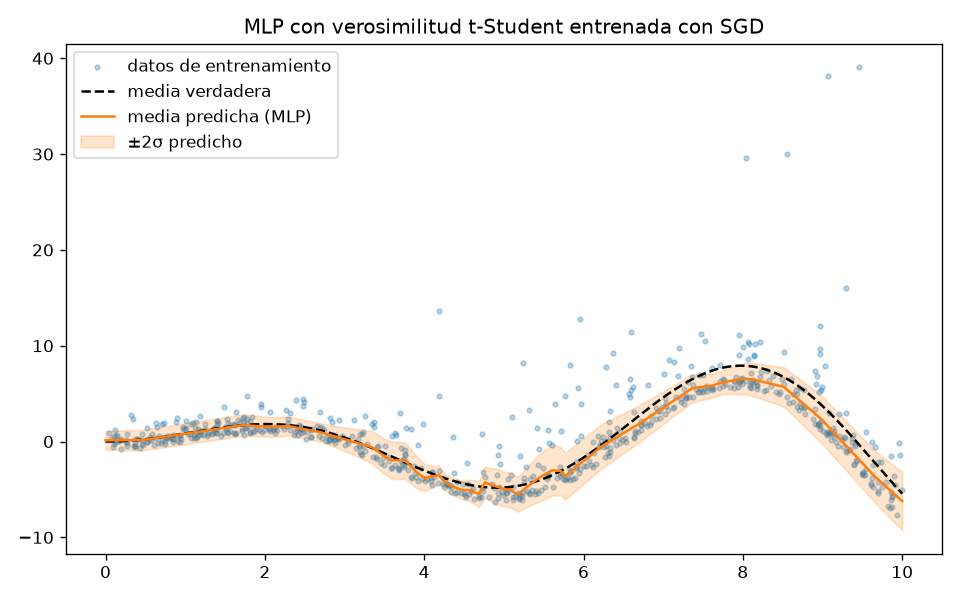
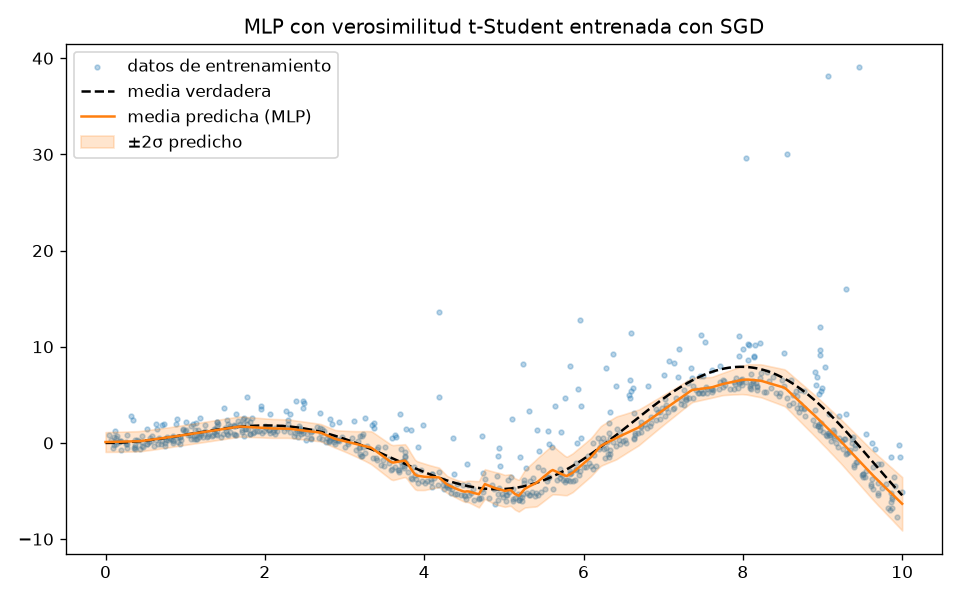
bayesian neural

diff --git a/examples/bayesian_neural_net.py b/examples/bayesian_neural_net.py
@@ -4,14 +4,20 @@ import matplotlib.pyplot as plt
 import jax
 # NUTS (littlemcmc) corre en numpy/float64: igualamos la precisión de JAX para
 # que el logp y su gradiente sean estables en el muestreador.
-jax.config.update("jax_enable_x64", True)
+#jax.config.update("jax_enable_x64", True)
 import jax.numpy as jnp
 from jax import jit, vmap, value_and_grad
 from jax.tree_util import tree_map
 from jax.flatten_util import ravel_pytree
-from jax.scipy.special import gammaln
+
+import distrax
+# distrax no trae una t-Student nativa, así que envolvemos la de TFP sobre el
+# sustrato JAX (trazable por vmap+jit y compatible con float64).
+from tensorflow_probability.substrates import jax as tfp
+tfd = tfp.distributions
 
 from littlemcmc.nuts_jax import sample_vmapped_nuts_chains
+from littlemcmc.hmc_jax import sample_vmapped_chains
 
 RANDOM_STATE = 42   # semilla única para todo el laboratorio (reproducibilidad)
 
@@ -87,18 +93,20 @@ def train(loss_fn, params, X, y, n_epochs=4000, lr=1e-2, log_every=1000):
     return params, history
 
 
+def tstudent_dist(mu, sigma, nu):
+    '''Distribución t-Student (location-scale) de distrax (envuelve TFP).'''
+    return distrax.as_distribution(tfd.StudentT(df=nu, loc=mu, scale=sigma))
+
+
 def tstudent_loss(params, x, y):
     '''NLL de una t de Student (location-scale) con cabeza heterocedástica.'''
     out = mlp_forward(params, x)               # (N, 3): mu, log(sigma^2), nu_raw
     mu = out[:, 0]
     log_var = jnp.clip(out[:, 1], -7.0, 7.0)   # estabilidad numérica
     nu = 2.0 + jax.nn.softplus(out[:, 2])      # grados de libertad nu > 2 (varianza finita)
-    z = (y - mu) / jnp.exp(0.5 * log_var)
+    sigma = jnp.exp(0.5 * log_var)
     # NLL de la t de Student: colas más pesadas -> robusta a outliers
-    nll = (gammaln(nu / 2.0) - gammaln((nu + 1.0) / 2.0)
-           + 0.5 * jnp.log(nu * jnp.pi) + 0.5 * log_var
-           + 0.5 * (nu + 1.0) * jnp.log1p(z ** 2 / nu))
-    return jnp.mean(nll)
+    return -jnp.mean(tstudent_dist(mu, sigma, nu).log_prob(y))
 
 
 def predict_params(params, x):
@@ -110,13 +118,40 @@ def predict_params(params, x):
     return mu, sigma, nu
 
 
+def mlp_features(body_params, x):
+    '''Extractor de características: todas las capas menos la última, con ReLU.
+
+    Devuelve phi(x), las activaciones que alimentan la capa lineal final. En el
+    esquema bayesiano de última capa, este cuerpo queda congelado en su valor MAP.
+    '''
+    for W, b in body_params:
+        x = jax.nn.relu(x @ W + b)
+    return x
+
+
+def predict_params_last(W_last, b_last, phi):
+    '''(mu, sigma, nu) a partir de la última capa lineal sobre características phi.'''
+    out = phi @ W_last + b_last
+    mu = out[:, 0]
+    sigma = jnp.exp(0.5 * jnp.clip(out[:, 1], -7.0, 7.0))
+    nu = 2.0 + jax.nn.softplus(out[:, 2])
+    return mu, sigma, nu
+
+
 def tstudent_logpdf(y, mu, sigma, nu):
-    '''log-densidad t-Student (location-scale) por punto.'''
-    log_var = 2.0 * jnp.log(sigma)
-    z = (y - mu) / sigma
-    return -(gammaln(nu / 2.0) - gammaln((nu + 1.0) / 2.0)
-             + 0.5 * jnp.log(nu * jnp.pi) + 0.5 * log_var
-             + 0.5 * (nu + 1.0) * jnp.log1p(z ** 2 / nu))
+    '''log-densidad t-Student (location-scale) por punto (vía distrax).'''
+    return tstudent_dist(mu, sigma, nu).log_prob(y)
+
+
+def tstudent_rvs(key, mu, sigma, nu, sample_shape=()):
+    '''Muestras t-Student (location-scale) en float32, vía ``jax.random.t``.
+
+    El muestreador de la t de TFP/distrax cae internamente a un gamma que castea
+    a float64 (avisos de truncado con x64 desactivado); ``jax.random.t`` respeta
+    el dtype de entrada, así que muestreamos a mano en float32.
+    '''
+    t = jax.random.t(key, nu, shape=tuple(sample_shape) + mu.shape)
+    return mu + sigma * t
 
 
 # ---------------------------------------------------------------------------
@@ -139,15 +174,15 @@ print(f"Prueba:        {X_test.shape[0]} muestras")
 
 x_mean, x_sd = X_train.mean(), X_train.std()
 y_mean, y_sd = y_train.mean(), y_train.std()
-# Tensores JAX estandarizados para el entrenamiento
-Xtr = jnp.asarray(standardize_X(X_train))
-ytr = jnp.asarray((y_train - y_mean) / y_sd)
-Xte = jnp.asarray(standardize_X(X_test))
-yte = jnp.asarray((y_test - y_mean) / y_sd)
+# Tensores JAX estandarizados para el entrenamiento (float32: x64 está desactivado)
+Xtr = jnp.asarray(standardize_X(X_train), dtype=jnp.float32)
+ytr = jnp.asarray((y_train - y_mean) / y_sd, dtype=jnp.float32)
+Xte = jnp.asarray(standardize_X(X_test), dtype=jnp.float32)
+yte = jnp.asarray((y_test - y_mean) / y_sd, dtype=jnp.float32)
 
 # Malla ordenada para graficar las curvas suaves
 xx = np.linspace(0.0, 10.0, 400).reshape(-1, 1)
-Xgrid = jnp.asarray(standardize_X(xx))
+Xgrid = jnp.asarray(standardize_X(xx), dtype=jnp.float32)
 
 
 # ---------------------------------------------------------------------------
@@ -234,6 +269,71 @@ n_div = int(np.sum(stats["diverging"]))
 print(f"  muestras posteriores: {samples.shape[0]}  |  divergencias: {n_div}")
 
 
+print(f"\nMuestreando el posterior con HMC-JAX vmapped ({model_ndim} parámetros)...")
+trace_hmc, stats_hmc = sample_vmapped_chains(
+    logp_dlogp_func,
+    model_ndim=model_ndim,
+    draws=400,
+    tune=400,
+    chains=2,
+    n_leapfrog=16,
+    start=flat0,   # (model_ndim,) se difunde a todas las cadenas
+    random_seed=RANDOM_STATE,
+)
+samples_hmc = jnp.asarray(trace_hmc.reshape(-1, model_ndim))   # (n_muestras, ndim)
+n_div_hmc = int(np.sum(stats_hmc["diverging"]))
+print(f"  muestras posteriores: {samples_hmc.shape[0]}  |  divergencias: {n_div_hmc}")
+
+
+# ---------------------------------------------------------------------------
+# Bayesiano de última capa (HMC-JAX): congelamos el cuerpo MAP (todas las capas
+# menos la última) como extractor de características fijo y muestreamos SOLO la
+# última capa lineal. Es mucho más barato (195 vs 4419 parámetros) y captura la
+# mayor parte de la incertidumbre predictiva (last-layer Laplace/Bayes).
+#     log p(W_L, b_L | datos) = sum_i log t(y_i | head(phi(x_i); W_L, b_L)) - 0.5||·||^2
+# con phi(x) = cuerpo MAP congelado.
+# ---------------------------------------------------------------------------
+body_params = params_small[:-1]          # capas congeladas (valor MAP)
+last_params = params_small[-1]           # (W_L, b_L): lo único que se muestrea
+flat0_last, unflatten_last = ravel_pytree(last_params)
+model_ndim_last = int(flat0_last.size)
+
+# Características de entrenamiento, congeladas (sin gradiente hacia el cuerpo).
+phi_tr = jax.lax.stop_gradient(mlp_features(body_params, Xtr))
+
+
+def log_posterior_last(flat):
+    '''log-posterior no normalizado sobre la última capa (cuerpo congelado).'''
+    W_last, b_last = unflatten_last(flat)
+    mu, sigma, nu = predict_params_last(W_last, b_last, phi_tr)
+    loglik = jnp.sum(tstudent_logpdf(ytr, mu, sigma, nu))
+    logprior = -0.5 * jnp.sum(flat ** 2) / (PRIOR_SD ** 2)
+    return loglik + logprior
+
+
+logp_dlogp_last = value_and_grad(log_posterior_last)
+
+print(f"\nMuestreando SOLO la última capa con HMC-JAX vmapped "
+      f"({model_ndim_last} de {model_ndim} parámetros)...")
+trace_ll, stats_ll = sample_vmapped_chains(
+    logp_dlogp_last,
+    model_ndim=model_ndim_last,
+    draws=400,
+    tune=400,
+    chains=2,
+    n_leapfrog=16,
+    start=flat0_last,   # (model_ndim_last,) se difunde a todas las cadenas
+    random_seed=RANDOM_STATE,
+)
+samples_ll = jnp.asarray(trace_ll.reshape(-1, model_ndim_last))
+n_div_ll = int(np.sum(stats_ll["diverging"]))
+print(f"  muestras posteriores: {samples_ll.shape[0]}  |  divergencias: {n_div_ll}")
+
+# Características congeladas en malla y prueba (reutilizadas por las métricas/plot).
+phi_grid = jax.lax.stop_gradient(mlp_features(body_params, Xgrid))
+phi_te = jax.lax.stop_gradient(mlp_features(body_params, Xte))
+
+
 # --- Predicción posterior (posterior predictive) sobre la malla -------------
 def grid_mu(flat):
     mu, _, _ = predict_params(unflatten(flat), Xgrid)
@@ -245,6 +345,19 @@ bayes_mean_grid = np.asarray(jnp.mean(post_mu_grid, axis=0))
 bayes_lo_grid = np.asarray(jnp.percentile(post_mu_grid, 2.5, axis=0))
 bayes_hi_grid = np.asarray(jnp.percentile(post_mu_grid, 97.5, axis=0))
 
+post_mu_grid_hmc = vmap(grid_mu)(samples_hmc) * y_sd + y_mean
+hmc_mean_grid = np.asarray(jnp.mean(post_mu_grid_hmc, axis=0))
+
+
+def grid_mu_last(flat):
+    W_last, b_last = unflatten_last(flat)
+    mu, _, _ = predict_params_last(W_last, b_last, phi_grid)
+    return mu
+
+
+post_mu_grid_ll = vmap(grid_mu_last)(samples_ll) * y_sd + y_mean
+ll_mean_grid = np.asarray(jnp.mean(post_mu_grid_ll, axis=0))
+
 
 # ---------------------------------------------------------------------------
 # Comparación cuantitativa en el conjunto de prueba
@@ -253,36 +366,124 @@ def rmse(pred_real):
     return float(np.sqrt(np.mean((np.asarray(pred_real) - y_test) ** 2)))
 
 
+def coverage95(pred_real):
+    '''Cobertura empírica del IC predictivo central del 95% (ideal: 0.95).'''
+    qlo = jnp.percentile(pred_real, 2.5, axis=0)
+    qhi = jnp.percentile(pred_real, 97.5, axis=0)
+    return float(jnp.mean((yte_real >= qlo) & (yte_real <= qhi)))
+
+
+def crps(pred_real):
+    '''CRPS medio estimado de muestras predictivas (estimador ordenado, O(M log M)).
+
+    CRPS(F, y) = E|X - y| - 0.5 E|X - X'|, menor es mejor; combina calibración
+    y nitidez de la predictiva en una sola métrica (unidades de y).
+    '''
+    M = pred_real.shape[0]
+    term1 = jnp.mean(jnp.abs(pred_real - yte_real[None, :]), axis=0)
+    xs = jnp.sort(pred_real, axis=0)
+    i = jnp.arange(1, M + 1)[:, None]
+    term2 = jnp.sum((2.0 * i - M - 1.0) * xs, axis=0) / (M ** 2)
+    return float(jnp.mean(term1 - term2))
+
+
+N_PRED = 800   # muestras predictivas por punto para cobertura y CRPS
+yte_real = jnp.asarray(y_test, dtype=jnp.float32)
+key_pred, random_key = jax.random.split(random_key)
+
+
+def det_pred_samples(params, key, n=N_PRED):
+    '''Muestras de la predictiva (t-Student única) de un modelo determinista, unidades reales.'''
+    mu, sigma, nu = predict_params(params, Xte)
+    ys = tstudent_rvs(key, mu, sigma, nu, sample_shape=(n,))                 # (n, N_test)
+    return ys * y_sd + y_mean
+
+
+def bayes_pred_samples(post_samples, key):
+    '''Muestras de la predictiva posterior (una y por muestra posterior y punto), unidades reales.'''
+    keys = jax.random.split(key, post_samples.shape[0])
+
+    def one(flat, k):
+        mu, sigma, nu = predict_params(unflatten(flat), Xte)
+        return tstudent_rvs(k, mu, sigma, nu)
+
+    ys = vmap(one)(post_samples, keys)                                       # (S, N_test)
+    return ys * y_sd + y_mean
+
+
 # (1) MLP determinista grande (SGD, [1,64,64,3]).
 mu_det, sigma_det, nu_det = predict_params(params_tstudent, Xte)
 det_rmse = rmse(np.asarray(mu_det) * y_sd + y_mean)
 det_ll = float(jnp.mean(tstudent_logpdf(yte, mu_det, sigma_det, nu_det)))
+k1, key_pred = jax.random.split(key_pred)
+det_pred = det_pred_samples(params_tstudent, k1)
+det_cov, det_crps = coverage95(det_pred), crps(det_pred)
 
-# (2) MLP determinista pequeño (SGD, [1,8,3]) = la moda del modelo bayesiano.
+# (2) MLP determinista pequeño (SGD/MAP) = la moda del modelo bayesiano.
 mu_map, sigma_map, nu_map = predict_params(params_small, Xte)
 map_rmse = rmse(np.asarray(mu_map) * y_sd + y_mean)
 map_ll = float(jnp.mean(tstudent_logpdf(yte, mu_map, sigma_map, nu_map)))
+k2, key_pred = jax.random.split(key_pred)
+map_pred = det_pred_samples(params_small, k2)
+map_cov, map_crps = coverage95(map_pred), crps(map_pred)
 
 
-# (3) Modelo bayesiano (NUTS): media y verosimilitud predictiva posterior.
+# (3)/(4)/(5) Modelos bayesianos (NUTS, HMC, última capa): media y verosimilitud
+# predictiva posterior. `test_pred_fn` y `pred_samples_fn` desacoplan la red
+# completa del esquema de última capa (cuerpo congelado).
 def test_pred(flat):
     mu, sigma, nu = predict_params(unflatten(flat), Xte)
     return mu, tstudent_logpdf(yte, mu, sigma, nu)
 
 
-post_mu_test, post_lp_test = vmap(test_pred)(samples)        # (S, N_test) cada uno
-bayes_mu_test = jnp.mean(post_mu_test, axis=0) * y_sd + y_mean
-bayes_rmse = rmse(bayes_mu_test)
-# log-verosimilitud predictiva: log( (1/S) sum_s p_s(y) ) promediada sobre puntos
-S = samples.shape[0]
-bayes_ll = float(jnp.mean(jax.scipy.special.logsumexp(post_lp_test, axis=0) - jnp.log(S)))
+def test_pred_last(flat):
+    W_last, b_last = unflatten_last(flat)
+    mu, sigma, nu = predict_params_last(W_last, b_last, phi_te)
+    return mu, tstudent_logpdf(yte, mu, sigma, nu)
+
+
+def lastlayer_pred_samples(post_samples, key):
+    '''Predictiva posterior de última capa (una y por muestra y punto), unidades reales.'''
+    keys = jax.random.split(key, post_samples.shape[0])
+
+    def one(flat, k):
+        W_last, b_last = unflatten_last(flat)
+        mu, sigma, nu = predict_params_last(W_last, b_last, phi_te)
+        return tstudent_rvs(k, mu, sigma, nu)
+
+    ys = vmap(one)(post_samples, keys)                                       # (S, N_test)
+    return ys * y_sd + y_mean
+
+
+def bayes_metrics(post_samples, key, test_pred_fn=test_pred,
+                  pred_samples_fn=bayes_pred_samples):
+    post_mu_test, post_lp_test = vmap(test_pred_fn)(post_samples)   # (S, N_test) cada uno
+    mu_test = jnp.mean(post_mu_test, axis=0) * y_sd + y_mean
+    S = post_samples.shape[0]
+    # log-verosimilitud predictiva: log( (1/S) sum_s p_s(y) ) promediada sobre puntos
+    ll = float(jnp.mean(jax.scipy.special.logsumexp(post_lp_test, axis=0) - jnp.log(S)))
+    pred = pred_samples_fn(post_samples, key)
+    return rmse(mu_test), ll, coverage95(pred), crps(pred)
+
+
+k3, key_pred = jax.random.split(key_pred)
+nuts_rmse, nuts_ll, nuts_cov, nuts_crps = bayes_metrics(samples, k3)
+k4, key_pred = jax.random.split(key_pred)
+hmc_rmse, hmc_ll, hmc_cov, hmc_crps = bayes_metrics(samples_hmc, k4)
+k5, key_pred = jax.random.split(key_pred)
+ll_rmse, ll_ll, ll_cov, ll_crps = bayes_metrics(
+    samples_ll, k5, test_pred_fn=test_pred_last, pred_samples_fn=lastlayer_pred_samples
+)
 
 print("\n=== Comparación en el conjunto de prueba ===")
-print(f"{'Modelo':<34}{'RMSE':>10}{'log-lik/pto':>14}")
-print(f"{'MLP determinista [1,64,64,3] (SGD)':<34}{det_rmse:>10.4f}{det_ll:>14.4f}")
-print(f"{'MLP determinista [1,8,3]   (SGD/MAP)':<34}{map_rmse:>10.4f}{map_ll:>14.4f}")
-print(f"{'Bayesiano [1,8,3]          (NUTS)':<34}{bayes_rmse:>10.4f}{bayes_ll:>14.4f}")
-print("(log-lik mayor es mejor; el bayesiano integra la incertidumbre de los pesos)")
+hdr = f"{'Modelo':<38}{'RMSE':>9}{'log-lik/pto':>13}{'cob.95%':>10}{'CRPS':>9}"
+print(hdr)
+print(f"{'MLP determinista [1,64,64,3] (SGD)':<38}{det_rmse:>9.4f}{det_ll:>13.4f}{det_cov:>10.3f}{det_crps:>9.4f}")
+print(f"{'MLP determinista [1,64,64,3] (MAP)':<38}{map_rmse:>9.4f}{map_ll:>13.4f}{map_cov:>10.3f}{map_crps:>9.4f}")
+print(f"{'Bayesiano completo [1,64,64,3] (NUTS)':<38}{nuts_rmse:>9.4f}{nuts_ll:>13.4f}{nuts_cov:>10.3f}{nuts_crps:>9.4f}")
+print(f"{'Bayesiano completo [1,64,64,3] (HMC)':<38}{hmc_rmse:>9.4f}{hmc_ll:>13.4f}{hmc_cov:>10.3f}{hmc_crps:>9.4f}")
+print(f"{'Bayesiano última capa (HMC, {n} par.)'.format(n=model_ndim_last):<38}{ll_rmse:>9.4f}{ll_ll:>13.4f}{ll_cov:>10.3f}{ll_crps:>9.4f}")
+print("(log-lik mayor es mejor; CRPS menor es mejor; cobertura 95% ideal ≈ 0.95)")
 
 
 # ---------------------------------------------------------------------------
@@ -293,12 +494,14 @@ plt.scatter(X_train, y_train, s=8, alpha=0.2, color="gray", label="datos")
 plt.plot(xx, f(xx), "k--", label="media verdadera")
 plt.plot(xx, mu_grid, "C1", label="MLP determinista (SGD)")
 plt.plot(xx, bayes_mean_grid, "C0", label="Bayesiano NUTS (media posterior)")
+plt.plot(xx, hmc_mean_grid, "C2", label="Bayesiano HMC (media posterior)")
+plt.plot(xx, ll_mean_grid, "C3", label="Bayesiano última capa (media posterior)")
 plt.fill_between(
     xx.ravel(), bayes_lo_grid, bayes_hi_grid,
-    color="C0", alpha=0.25, label="IC 95% (incertidumbre epistémica)"
+    color="C0", alpha=0.25, label="IC 95% NUTS (incertidumbre epistémica)"
 )
 plt.legend()
-plt.title("Determinista (SGD) vs Bayesiano (NUTS) — verosimilitud t-Student")
+plt.title("Determinista (SGD) vs Bayesiano (NUTS/HMC/última capa) — t-Student")
 plt.tight_layout()
 plt.savefig("bayesian_neural_net_nuts.png", dpi=120)
 print("\nGráfica comparativa guardada en bayesian_neural_net_nuts.png")